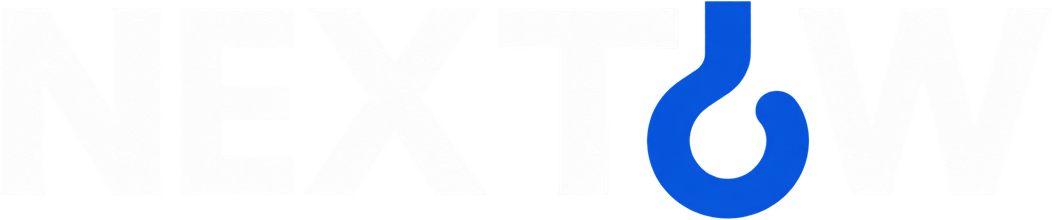
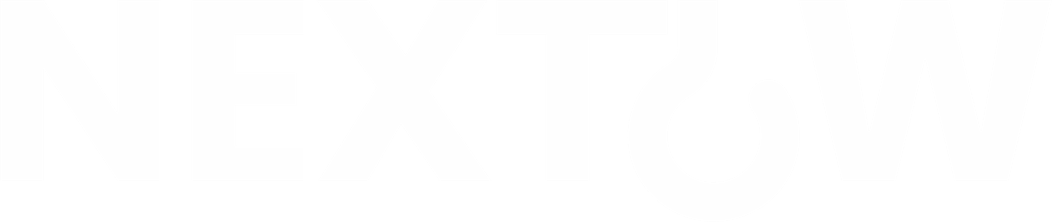
Added a Vpp Certificate Upload Feature

Changed region(s): [[0.6084, 0.0, 0.7909, 1.0]]

diff --git a/components/layout/public-header.tsx b/components/layout/public-header.tsx
@@ -38,12 +38,12 @@ export function PublicHeader() {
           "sticky top-0 z-50 w-full h-20 transition-all duration-300",
           isHome && "-mb-20",
           isScrolled
-            ? "bg-[#070f26]/95 backdrop-blur-md border-b border-white/10 shadow-lg shadow-black/20 text-white"
+            ? "bg-[#003EF9]/95 backdrop-blur-md border-b border-white/20 shadow-lg shadow-[#003EF9]/25 text-white"
             : isHome
             ? mobileMenuOpen
-              ? "bg-[#070f26] border-b border-white/10 text-white"
+              ? "bg-[#003EF9] border-b border-white/20 text-white"
               : "bg-transparent border-b-0 border-transparent shadow-none text-white"
-            : "bg-[#070f26] border-b border-white/10 text-white"
+            : "bg-[#003EF9] border-b border-white/20 text-white"
         )}
       >
         <div className="max-w-7xl mx-auto px-4 sm:px-6 lg:px-8 h-full">
@@ -51,7 +51,7 @@ export function PublicHeader() {
             {/* Logo */}
             <Link href="/" className="flex items-center group shrink-0">
               <Image
-                src="/NEXPOW.png"
+                src="/NEXPOW1.png"
                 alt="NextTow"
                 width={160}
                 height={34}
@@ -69,13 +69,13 @@ export function PublicHeader() {
                   <Link
                     key={link.href}
                     href={link.href}
-                    className={`text-sm font-medium transition-colors ${
+                    className={`text-sm font-semibold transition-colors ${
                       isDealer
-                        ? "text-primary/90 hover:text-white flex items-center gap-1.5 px-3 py-1.5 rounded-full bg-primary/10 border border-primary/20 shrink-0"
-                        : "text-slate-300 hover:text-white"
+                        ? "text-white hover:text-white flex items-center gap-1.5 px-3 py-1.5 rounded-full bg-white/15 hover:bg-white/25 border border-white/30 shrink-0 backdrop-blur-xs"
+                        : "text-white/90 hover:text-white"
                     }`}
                   >
-                    {isDealer && <ShieldCheck className="h-3.5 w-3.5" />}
+                    {isDealer && <ShieldCheck className="h-3.5 w-3.5 text-white" />}
                     <span>{link.title}</span>
                   </Link>
                 );
@@ -86,10 +86,10 @@ export function PublicHeader() {
             <div className="hidden lg:flex items-center gap-3 xl:gap-5 shrink-0">
               <a
                 href={`tel:${siteConfig.emergencyPhoneRaw}`}
-                className="flex items-center gap-1.5 xl:gap-2 text-sm font-bold text-slate-200 hover:text-white transition-colors"
+                className="flex items-center gap-1.5 xl:gap-2 text-sm font-bold text-white hover:text-white/90 transition-colors bg-white/10 hover:bg-white/20 px-3.5 py-2 rounded-xl border border-white/20 backdrop-blur-xs"
                 title="Call 24/7 Dispatch"
               >
-                <Phone className="h-4 w-4 text-primary shrink-0" />
+                <Phone className="h-4 w-4 text-white shrink-0" />
                 <span>{siteConfig.emergencyPhone}</span>
               </a>
             </div>
@@ -98,7 +98,7 @@ export function PublicHeader() {
             <div className="flex lg:hidden items-center">
               <button
                 onClick={() => setMobileMenuOpen(!mobileMenuOpen)}
-                className="p-2 -mr-1 rounded-lg text-slate-200 hover:text-white hover:bg-white/10"
+                className="p-2 -mr-1 rounded-lg text-white hover:bg-white/15 transition-colors"
                 aria-label="Toggle mobile menu"
               >
                 {mobileMenuOpen ? <X className="h-6 w-6" /> : <Menu className="h-6 w-6" />}
@@ -109,26 +109,26 @@ export function PublicHeader() {
 
         {/* Mobile / Tablet Drawer */}
         {mobileMenuOpen && (
-          <div className="lg:hidden border-b border-white/10 bg-[#070f26] px-4 pt-2 pb-6 space-y-3">
+          <div className="lg:hidden border-b border-white/20 bg-[#003EF9] px-4 pt-2 pb-6 space-y-3 shadow-2xl">
             <nav className="flex flex-col space-y-2">
               {navLinks.map((link) => (
                 <Link
                   key={link.href}
                   href={link.href}
                   onClick={() => setMobileMenuOpen(false)}
-                  className="flex items-center justify-between px-3.5 py-3 rounded-xl text-sm font-semibold text-slate-200 hover:bg-white/10 hover:text-white active:bg-white/15"
+                  className="flex items-center justify-between px-3.5 py-3 rounded-xl text-sm font-semibold text-white hover:bg-white/15 active:bg-white/20 transition-colors"
                 >
                   <span>{link.title}</span>
-                  <ChevronRight className="h-4 w-4 text-slate-400" />
+                  <ChevronRight className="h-4 w-4 text-white/70" />
                 </Link>
               ))}
             </nav>
-            <div className="pt-2 border-t border-white/10 flex flex-col gap-2">
+            <div className="pt-2 border-t border-white/20 flex flex-col gap-2">
               <a
                 href={`tel:${siteConfig.emergencyPhoneRaw}`}
-                className="w-full inline-flex items-center justify-center gap-2 py-3.5 rounded-xl bg-primary active:bg-primary-hover text-white font-black text-sm shadow-md shadow-primary/25"
+                className="w-full inline-flex items-center justify-center gap-2 py-3.5 rounded-xl bg-white hover:bg-slate-50 text-[#003EF9] font-black text-sm shadow-md active:scale-[0.99] transition-all"
               >
-                <Phone className="h-4 w-4" />
+                <Phone className="h-4 w-4 text-[#003EF9]" />
                 <span>Emergency Dispatch: {siteConfig.emergencyPhone}</span>
               </a>
             </div>

diff --git a/app/(public)/page.tsx b/app/(public)/page.tsx
@@ -138,11 +138,11 @@ export default function HomePage() {
       />
 
       {/* 1. HERO SECTION - Desktop 2-column & Compact Mobile Hero */}
-      <section className="relative overflow-visible z-20 bg-gradient-to-b from-[#0b193c] via-[#0d2154] to-[#071330] text-white pt-24 pb-16 sm:pt-28 sm:pb-20 lg:pt-40 lg:pb-28 lg:min-h-[760px] xl:min-h-[820px] lg:flex lg:items-center border-b border-white/10">
+      <section className="relative overflow-visible z-20 bg-[linear-gradient(180deg,#003EF9_0%,#0031c7_15%,#081d52_55%,#071330_100%)] text-white pt-24 pb-16 sm:pt-28 sm:pb-20 lg:pt-40 lg:pb-28 lg:min-h-[760px] xl:min-h-[820px] lg:flex lg:items-center border-b border-white/10">
         {/* Subtle background glow & radial gradient */}
         <div className="absolute inset-0 pointer-events-none overflow-hidden opacity-30">
-          <div className="absolute -top-40 -left-40 w-96 h-96 bg-primary rounded-full blur-[140px]" />
-          <div className="absolute top-1/2 -right-40 w-96 h-96 bg-secondary rounded-full blur-[160px]" />
+          <div className="absolute -top-40 -left-40 w-96 h-96 bg-[#003EF9] rounded-full blur-[140px]" />
+          <div className="absolute top-1/2 -right-40 w-96 h-96 bg-primary rounded-full blur-[160px]" />
         </div>
 
         <div className="max-w-7xl mx-auto px-4 sm:px-6 lg:px-8 relative z-10 w-full">

diff --git a/app/globals.css b/app/globals.css
@@ -1,24 +1,24 @@
 @import "tailwindcss";
 
 @theme {
-  --color-primary: #0f5bd7;
-  --color-secondary: #0c4cb4;
-  --color-primary-hover: #1d4ed8;
-  --color-brand-primary: #2563eb;
-  --color-brand-secondary: #1d4ed8;
+  --color-primary: #003EF9;
+  --color-secondary: #002ec4;
+  --color-primary-hover: #0034d6;
+  --color-brand-primary: #003EF9;
+  --color-brand-secondary: #002ec4;
 }
 
 @layer base {
   :root {
-    --brand-primary: #0f5bd7;
-    --brand-primary-hover: #0f5bd7;
-    --brand-secondary: #2c51b6;
-    --brand-dark: #0f172a;
-    --brand-navy: #1e293b;
-    --brand-light: #eff6ff;
+    --brand-primary: #003EF9;
+    --brand-primary-hover: #0034d6;
+    --brand-secondary: #002ec4;
+    --brand-dark: #070f26;
+    --brand-navy: #0f1d44;
+    --brand-light: #eef3ff;
     --brand-surface: #ffffff;
     --brand-border: #e2e8f0;
-    --brand-accent: #3b82f6;
+    --brand-accent: #003EF9;
     --brand-success: #10b981;
     --brand-warning: #f59e0b;
     --brand-danger: #ef4444;

diff --git a/components/ui/button.tsx b/components/ui/button.tsx
@@ -32,9 +32,9 @@ export const Button = React.forwardRef<HTMLButtonElement, ButtonProps>(
 
     const variants = {
       primary:
-        "bg-[#0f5bd7] hover:bg-[#0c4cb4] text-white shadow-sm shadow-[#0f5bd7]/25 border border-[#0f5bd7]",
+        "bg-[#003EF9] hover:bg-[#0034d6] text-white shadow-sm shadow-[#003EF9]/25 border border-[#003EF9]",
       secondary:
-        "bg-[#eff5ff] hover:bg-[#e0ecfe] text-[#0c4cb4] border border-[#d0e2fe]",
+        "bg-[#eef3ff] hover:bg-[#dbe7ff] text-[#003EF9] border border-[#bfd5ff]",
       outline:
         "border border-slate-300 hover:border-slate-400 bg-white hover:bg-slate-50 text-slate-800 shadow-xs",
       ghost: "hover:bg-slate-100 text-slate-700",

diff --git a/app/(dealer)/dealer/login/page.tsx b/app/(dealer)/dealer/login/page.tsx
@@ -76,7 +76,7 @@ export default function DealerLoginPage() {
             className="inline-flex items-center justify-center px-6 py-3.5 rounded-2xl bg-[#070f26] border border-slate-800 shadow-xl shadow-slate-900/10 group transition-all hover:scale-105"
           >
             <Image
-              src="/NEXPOW.png"
+              src="/NEXPOW1.png"
               alt="NextTow"
               width={160}
               height={34}

diff --git a/components/layout/dealer-sidebar.tsx b/components/layout/dealer-sidebar.tsx
@@ -46,7 +46,7 @@ export function DealerSidebar({ onItemClick }: DealerSidebarProps) {
         <div className="p-6 border-b border-slate-800/80">
           <Link href="/dealer/dashboard" className="block space-y-2 group">
             <Image
-              src="/NEXPOW.png"
+              src="/NEXPOW1.png"
               alt="NextTow"
               width={140}
               height={30}

diff --git a/components/layout/public-footer.tsx b/components/layout/public-footer.tsx
@@ -13,7 +13,7 @@ export function PublicFooter() {
           <div className="lg:col-span-2 space-y-4">
             <Link href="/" className="inline-flex items-center group">
               <Image
-                src="/NEXPOW.png"
+                src="/NEXPOW1.png"
                 alt="NextTow"
                 width={170}
                 height={36}

diff --git a/components/layout/dealer-header.tsx b/components/layout/dealer-header.tsx
@@ -31,7 +31,7 @@ export function DealerHeader({ onOpenMobileSidebar }: DealerHeaderProps) {
           className="lg:hidden flex items-center px-2 py-1 rounded-lg bg-[#070f26] shrink-0"
         >
           <Image
-            src="/NEXPOW.png"
+            src="/NEXPOW1.png"
             alt="NextTow"
             width={90}
             height={20}
